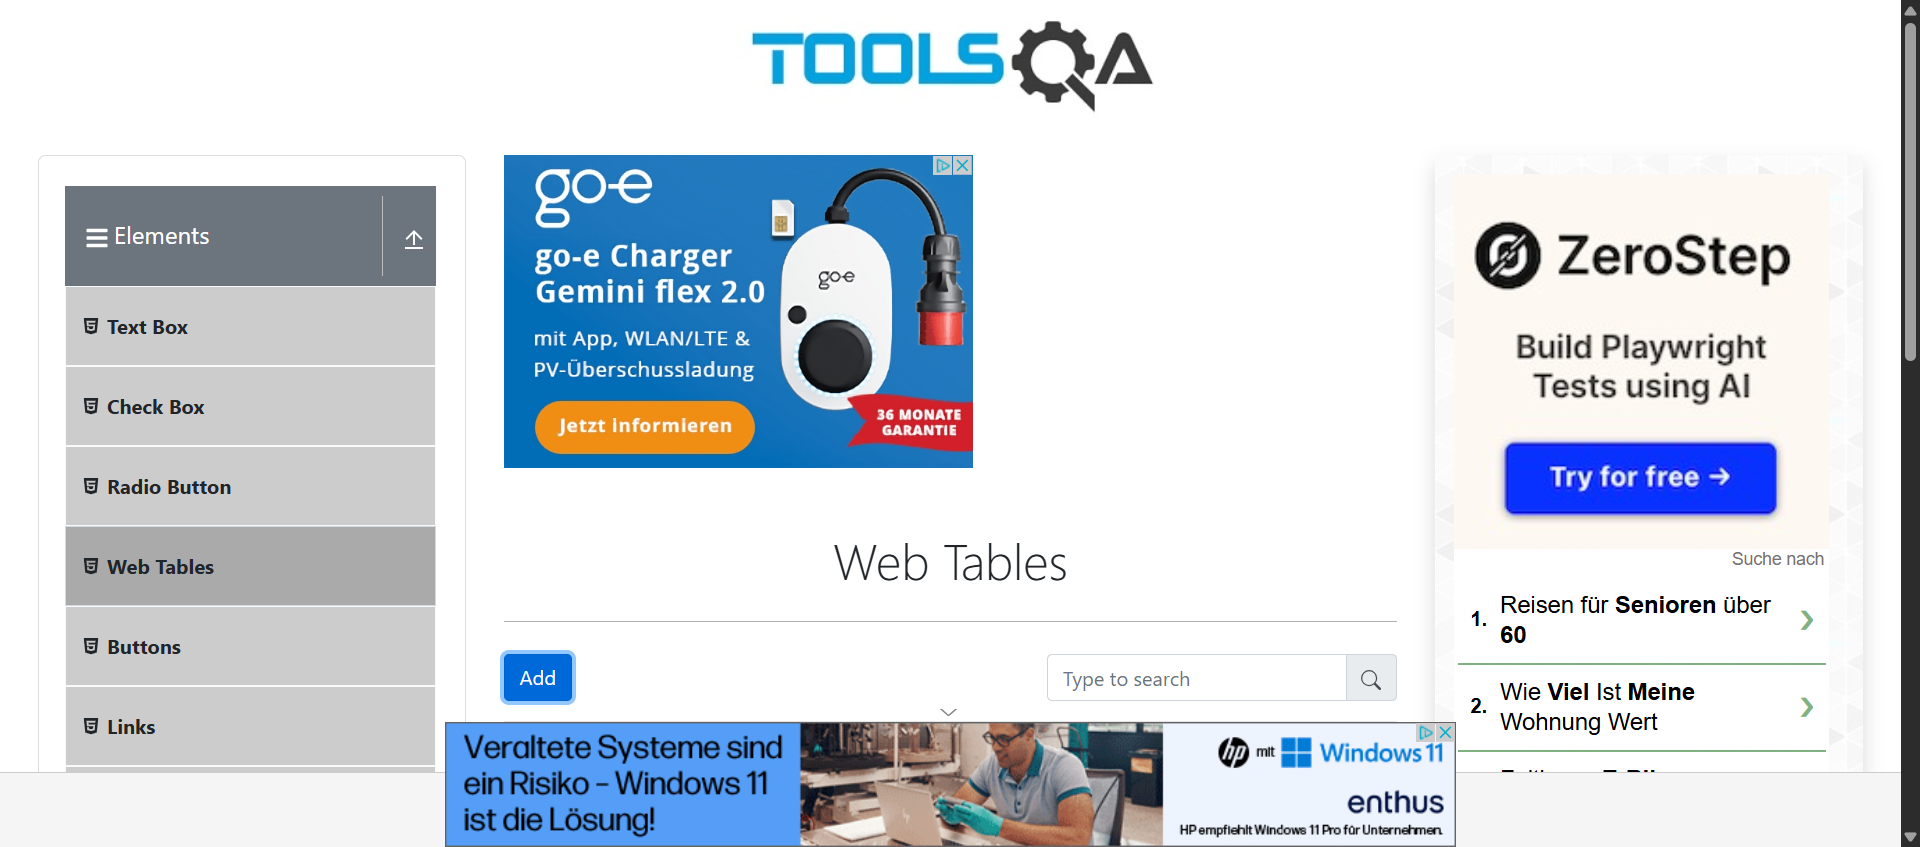
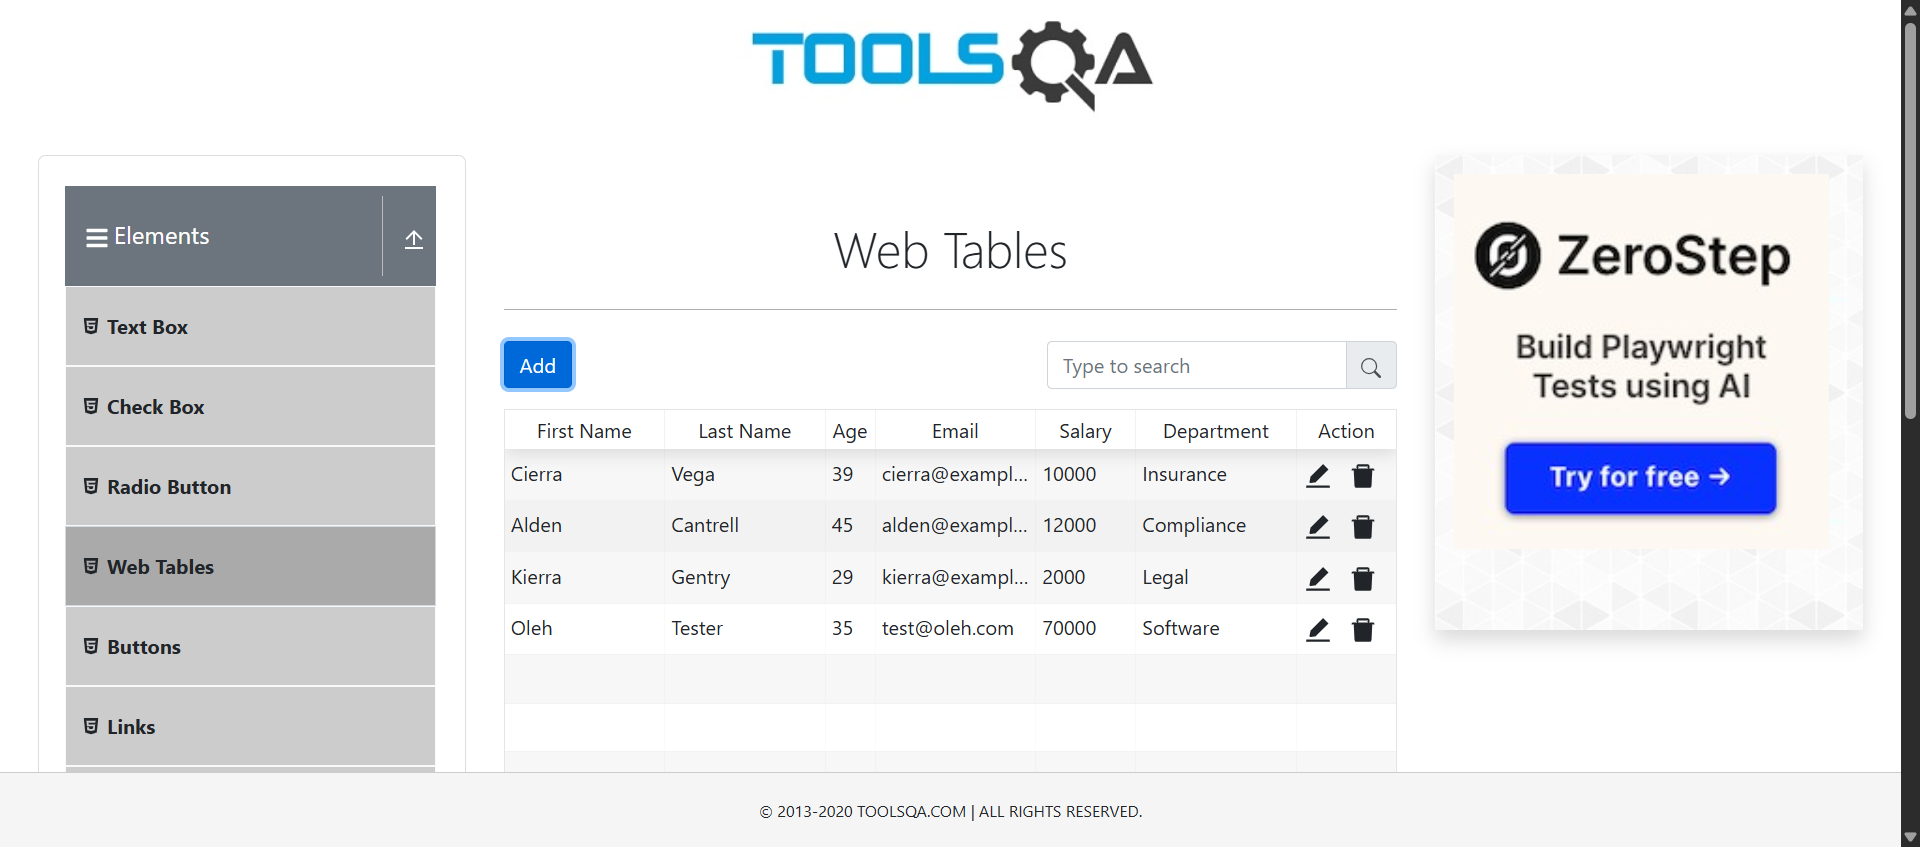
remove ads for bettet visability

diff --git a/OlehSeleniumTest/Program.cs b/OlehSeleniumTest/Program.cs
@@ -50,6 +50,8 @@ public class Program
 
         // Wait for the data in the table.
         CustomCommands.WaitForTableRowData(driver, user, 10);
+        // Need to be hided, because ads are displayed on the half of the screen!
+        HideAds(driver);
         TakeScreenshot(driver, "step_5_row_verified");
     }
 
@@ -60,5 +62,16 @@ public class Program
 
         var screenshot = ((ITakesScreenshot)driver).GetScreenshot();
         screenshot.SaveAsFile($"Screenshots/{stepName}.png");
+    }
+
+    private static void HideAds(IWebDriver driver)
+    {
+        IJavaScriptExecutor js = (IJavaScriptExecutor)driver;
+
+        // Hide all ads!
+        js.ExecuteScript(@"
+            const elements = document.querySelectorAll('[id*=""google_ads""] , .ad, .ads, iframe, [style*=""z-index""]');
+            elements.forEach(el => el.style.display = 'none');
+        ");
     }
 }

diff --git a/OlehSeleniumTest/obj/Debug/net9.0/OlehSeleniumTest.AssemblyInfo.cs b/OlehSeleniumTest/obj/Debug/net9.0/OlehSeleniumTest.AssemblyInfo.cs
@@ -13,7 +13,7 @@ using System.Reflection;
 [assembly: System.Reflection.AssemblyCompanyAttribute("OlehSeleniumTest")]
 [assembly: System.Reflection.AssemblyConfigurationAttribute("Debug")]
 [assembly: System.Reflection.AssemblyFileVersionAttribute("1.0.0.0")]
-[assembly: System.Reflection.AssemblyInformationalVersionAttribute("1.0.0+7f04b227af90af60e10b998c706cc4d3674de2c2")]
+[assembly: System.Reflection.AssemblyInformationalVersionAttribute("1.0.0+8b2f91e556f0a27dc1afe268958dfe256464c079")]
 [assembly: System.Reflection.AssemblyProductAttribute("OlehSeleniumTest")]
 [assembly: System.Reflection.AssemblyTitleAttribute("OlehSeleniumTest")]
 [assembly: System.Reflection.AssemblyVersionAttribute("1.0.0.0")]
